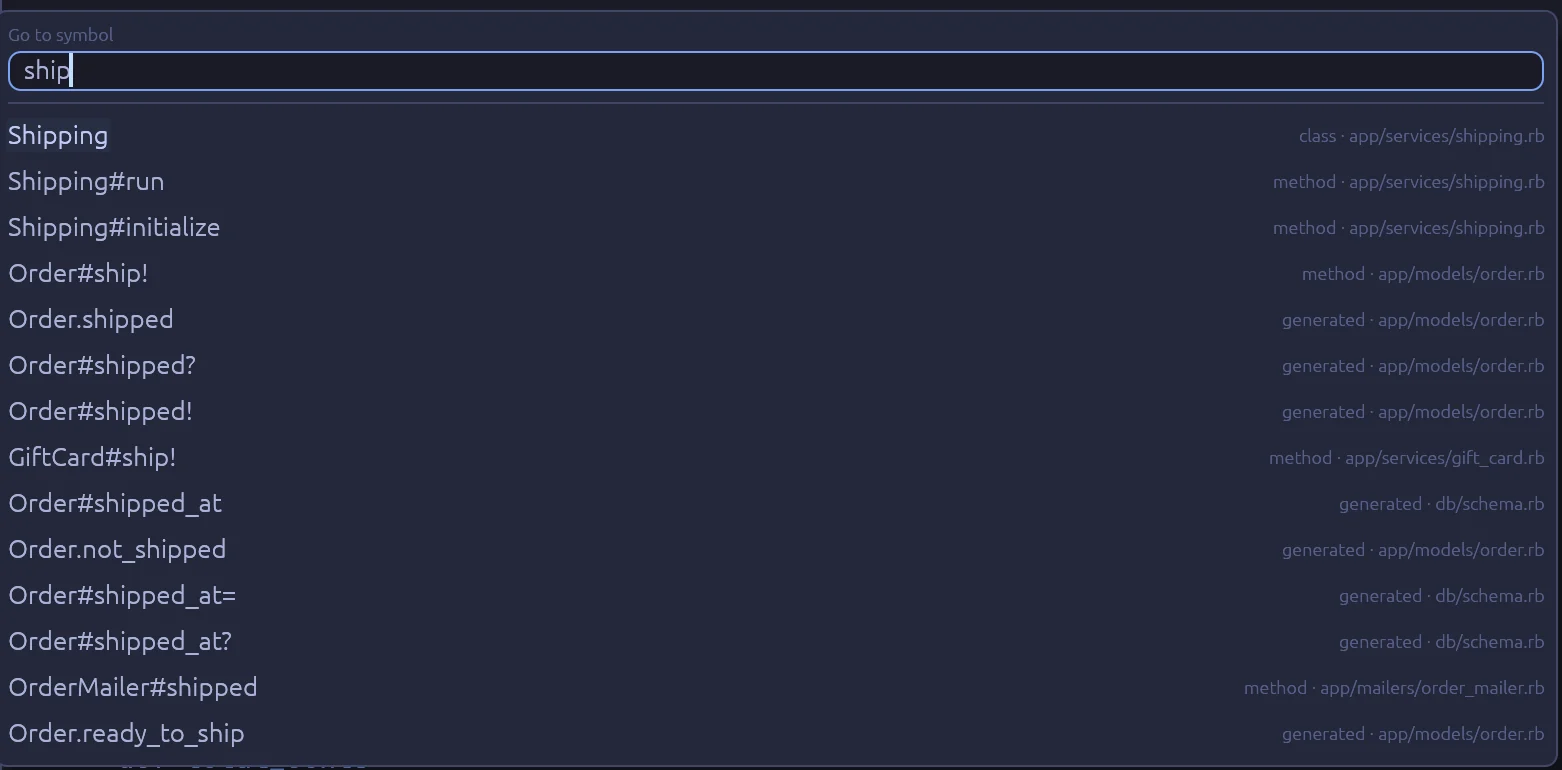
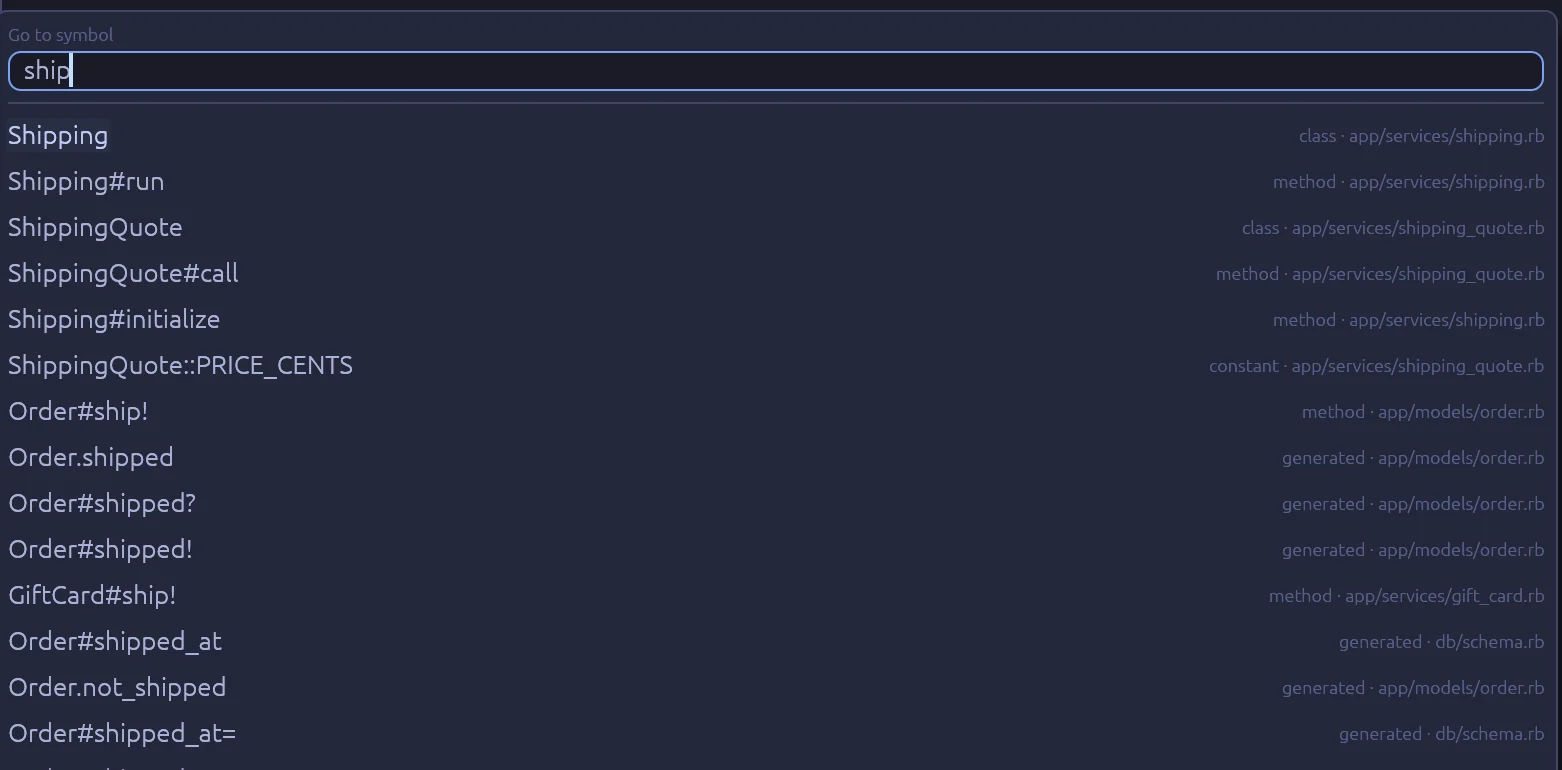
Let the Try it demo show more kinds of jump
The demo on the web page has tabs now: class and method, controller action
to view, partial, route helper, the usages of a constant, and a translation
key. Each tab is a real screenshot with a spot to click, and the result
after the click.

The shop app of the screenshot test has a Shop module with a constant and
three places that use it. All screenshots were made again.

diff --git a/webpage/index.html b/webpage/index.html
@@ -49,27 +49,75 @@
           </ul>
         </div>
 
-        <figure class="demo" id="demo" data-state="start">
+        <figure class="demo" id="demo" data-state="code">
+          <div class="demo-tabs" role="group" aria-label="Kinds of jump">
+            <button type="button" data-go="code" aria-pressed="true">Class and method</button>
+            <button type="button" data-go="view" aria-pressed="false">Controller to view</button>
+            <button type="button" data-go="partial" aria-pressed="false">Partial</button>
+            <button type="button" data-go="route" aria-pressed="false">Route helper</button>
+            <button type="button" data-go="constant" aria-pressed="false">Constant usages</button>
+            <button type="button" data-go="i18n" aria-pressed="false">Translation key</button>
+          </div>
           <div class="demo-frame">
-            <img src="img/shots/ctrl-hover.webp" data-for="start" width="2560" height="1520"
+            <img src="img/shots/ctrl-hover.webp" data-for="code" width="2560" height="1520"
                  alt="Rubyscope with app/services/shipping.rb open. Ctrl is held and the class name Order has an underline.">
-            <img src="img/shots/class-definition.webp" data-for="class" width="2560" height="1520" hidden loading="lazy"
+            <img src="img/shots/class-definition.webp" data-for="code-class" width="2560" height="1520" hidden loading="lazy"
                  alt="Rubyscope after the click: app/models/order.rb is open at class Order.">
-            <img src="img/shots/method-definition.webp" data-for="method" width="2560" height="1520" hidden loading="lazy"
+            <img src="img/shots/method-definition.webp" data-for="code-method" width="2560" height="1520" hidden loading="lazy"
                  alt="Rubyscope after the click: app/models/order.rb is open at def ship!.">
+            <img src="img/shots/try-view.webp" data-for="view" width="2560" height="1520" hidden loading="lazy"
+                 alt="Rubyscope with the orders controller open. Ctrl is held over the show action.">
+            <img src="img/shots/try-view-done.webp" data-for="view-done" width="2560" height="1520" hidden loading="lazy"
+                 alt="Rubyscope after the click: app/views/orders/show.html.erb is open.">
+            <img src="img/shots/try-partial.webp" data-for="partial" width="2560" height="1520" hidden loading="lazy"
+                 alt="Rubyscope with app/views/orders/show.html.erb open. Ctrl is held over the partial orders/line_item.">
+            <img src="img/shots/try-partial-done.webp" data-for="partial-done" width="2560" height="1520" hidden loading="lazy"
+                 alt="Rubyscope after the click: app/views/orders/_line_item.html.erb is open.">
+            <img src="img/shots/try-route.webp" data-for="route" width="2560" height="1520" hidden loading="lazy"
+                 alt="Rubyscope with the orders controller open. Ctrl is held over order_path.">
+            <img src="img/shots/try-route-done.webp" data-for="route-done" width="2560" height="1520" hidden loading="lazy"
+                 alt="Rubyscope after the click: config/routes.rb is open at resources :orders.">
+            <img src="img/shots/try-constant.webp" data-for="constant" width="2560" height="1520" hidden loading="lazy"
+                 alt="Rubyscope with app/models/shop.rb open. Ctrl is held over the constant FREE_SHIPPING_CENTS where it is defined.">
+            <img src="img/shots/try-constant-done.webp" data-for="constant-done" width="2560" height="1520" hidden loading="lazy"
+                 alt="Rubyscope after the click: the results panel lists 3 usages of Shop::FREE_SHIPPING_CENTS.">
+            <img src="img/shots/try-i18n.webp" data-for="i18n" width="2560" height="1520" hidden loading="lazy"
+                 alt="Rubyscope with the orders controller open. Ctrl is held over the lazy translation key .updated.">
+            <img src="img/shots/try-i18n-done.webp" data-for="i18n-done" width="2560" height="1520" hidden loading="lazy"
+                 alt="Rubyscope after the click: config/locales/en.yml is open at updated.">
 
-            <button class="spot" data-for="start" data-go="class" style="left:25.7%;top:31.3%;width:4.1%;height:3.8%"
+            <button class="spot" data-for="code" data-go="code-class" style="left:25.7%;top:31.3%;width:4.1%;height:3.8%"
                     aria-label="Ctrl+click Order"><span class="tip">Ctrl+click Order</span></button>
-            <button class="spot" data-for="start" data-go="method" style="left:31%;top:41.6%;width:4.2%;height:3.6%"
+            <button class="spot" data-for="code" data-go="code-method" style="left:31%;top:41.6%;width:4.2%;height:3.6%"
                     aria-label="Ctrl+click ship!"></button>
-            <button class="spot" data-for="class method" data-go="start" style="left:0.35%;top:0.5%;width:2.2%;height:3%"
+            <button class="spot" data-for="view" data-go="view-done" style="left:27.4%;top:31.9%;width:2.6%;height:3.4%" hidden
+                    aria-label="Ctrl+click show"><span class="tip">Ctrl+click show</span></button>
+            <button class="spot" data-for="partial" data-go="partial-done" style="left:39.2%;top:35.5%;width:11.8%;height:3.4%" hidden
+                    aria-label="Ctrl+click &quot;orders/line_item&quot;"><span class="tip">Ctrl+click "orders/line_item"</span></button>
+            <button class="spot" data-for="route" data-go="route-done" style="left:35.3%;top:62.7%;width:6.6%;height:3.4%" hidden
+                    aria-label="Ctrl+click order_path"><span class="tip">Ctrl+click order_path</span></button>
+            <button class="spot" data-for="constant" data-go="constant-done" style="left:24.2%;top:18.2%;width:12.5%;height:3.4%" hidden
+                    aria-label="Ctrl+click FREE_SHIPPING_CENTS"><span class="tip">Ctrl+click FREE_SHIPPING_CENTS</span></button>
+            <button class="spot" data-for="i18n" data-go="i18n-done" style="left:55%;top:62.7%;width:6.6%;height:3.4%" hidden
+                    aria-label="Ctrl+click &quot;.updated&quot;"><span class="tip">Ctrl+click ".updated"</span></button>
+            <button class="spot" data-for="code-class code-method view-done partial-done route-done constant-done i18n-done" data-go="back" style="left:0.35%;top:0.5%;width:2.2%;height:3%"
                     aria-label="Go back" hidden><span class="tip">Back</span></button>
           </div>
           <figcaption class="demo-bar">
-            <p data-for="start"><strong>Try it.</strong> This is a real screenshot. Ctrl is held, so <code>Order</code> has an underline. Click it, or click <code>ship!</code> lower down.</p>
-            <p data-for="class" hidden><strong>app/models/order.rb, line 2.</strong> The click found the class through Ruby's constant lookup. Use the back button in the top bar to return.</p>
-            <p data-for="method" hidden><strong>Order#ship!, line 22.</strong> Rubyscope knew that <code>order</code> is an <code>Order</code>, because it comes from <code>Order.ready_to_ship.find_each</code>.</p>
-            <button class="demo-reset" type="button" data-go="start" hidden>Start again</button>
+            <p data-for="code"><strong>Try it.</strong> These are real screenshots. Ctrl is held, so <code>Order</code> has an underline. Click it, or click <code>ship!</code> lower down. The tabs above show more kinds of jump.</p>
+            <p data-for="code-class" hidden><strong>app/models/order.rb, line 2.</strong> The click found the class through Ruby's constant lookup. Use the back button in the top bar to return.</p>
+            <p data-for="code-method" hidden><strong>Order#ship!, line 22.</strong> Rubyscope knew that <code>order</code> is an <code>Order</code>, because it comes from <code>Order.ready_to_ship.find_each</code>.</p>
+            <p data-for="view" hidden><strong>Try it.</strong> Ctrl is held over the <code>show</code> action in the orders controller. Click it to open its template.</p>
+            <p data-for="view-done" hidden><strong>app/views/orders/show.html.erb.</strong> The action opened its template. The bar above the code links back to <code>OrdersController#show</code>.</p>
+            <p data-for="partial" hidden><strong>Try it.</strong> Ctrl is held over a partial in a template. Click <code>"orders/line_item"</code>.</p>
+            <p data-for="partial-done" hidden><strong>app/views/orders/_line_item.html.erb.</strong> The partial name became its file, with the underscore and the template extension.</p>
+            <p data-for="route" hidden><strong>Try it.</strong> Ctrl is held over the route helper <code>order_path</code>. Click it.</p>
+            <p data-for="route-done" hidden><strong>config/routes.rb, line 2.</strong> <code>order_path</code> comes from <code>resources :orders</code>, so the click opens that line.</p>
+            <p data-for="constant" hidden><strong>Try it.</strong> This is where a constant is defined. Ctrl+click <code>FREE_SHIPPING_CENTS</code> to see where it is used.</p>
+            <p data-for="constant-done" hidden><strong>3 usages of Shop::FREE_SHIPPING_CENTS.</strong> A helper, a service and a spec. In the app, a click on a row opens that line, and "callers" goes one level up.</p>
+            <p data-for="i18n" hidden><strong>Try it.</strong> Ctrl is held over a lazy translation key in the update action. Click <code>".updated"</code>.</p>
+            <p data-for="i18n-done" hidden><strong>config/locales/en.yml, line 9.</strong> The lazy key <code>.updated</code> in <code>OrdersController#update</code> is <code>en.orders.update.updated</code>.</p>
+            <button class="demo-reset" type="button" data-go="back" hidden>Start again</button>
           </figcaption>
         </figure>
       </div>

diff --git a/webpage/js/site.js b/webpage/js/site.js
@@ -7,23 +7,30 @@ onScroll();
 
 // The demo shows one screenshot at a time. Every element with data-for
 // belongs to one or more states; a click on data-go moves to that state.
+// A state is a scene ("route") or a scene after its click ("route-done").
+// The tabs pick the scene; "back" returns to the start of the current scene.
 const demo = document.getElementById("demo");
 if (demo) {
+  const scene = () => demo.dataset.state.split("-")[0];
   const show = (state, focus) => {
+    if (state === "back") state = scene();
     demo.dataset.state = state;
-    demo.querySelectorAll("[data-for]").forEach((el) => {
+    demo.querySelectorAll(".demo-frame [data-for], .demo-bar [data-for]").forEach((el) => {
       el.hidden = !el.dataset.for.split(" ").includes(state);
     });
-    demo.querySelector(".demo-reset").hidden = state === "start";
+    demo.querySelectorAll(".demo-tabs [data-go]").forEach((tab) => {
+      tab.setAttribute("aria-pressed", tab.dataset.go === scene());
+    });
+    demo.querySelector(".demo-reset").hidden = state === scene();
     if (focus) demo.querySelector(`.spot:not([hidden])`)?.focus();
   };
   demo.addEventListener("click", (event) => {
     const go = event.target.closest("[data-go]");
-    if (go) show(go.dataset.go, event.detail === 0);
+    if (go) show(go.dataset.go, event.detail === 0 && !go.closest(".demo-tabs"));
   });
   // The mouse back button returns, as in the app.
   demo.addEventListener("mouseup", (event) => {
-    if (event.button === 3 && demo.dataset.state !== "start") show("start");
+    if (event.button === 3 && demo.dataset.state !== scene()) show("back");
   });
 }
 

diff --git a/webpage/css/site.css b/webpage/css/site.css
@@ -340,6 +340,37 @@ pre .c {
   margin-top: clamp(2.5rem, 6vw, 4rem);
 }
 
+.demo-tabs {
+  display: flex;
+  flex-wrap: wrap;
+  gap: 0.5rem;
+  margin-bottom: 1rem;
+}
+
+.demo-tabs button {
+  padding: 0.45rem 0.9rem;
+  border: 1px solid var(--rule);
+  border-radius: 999px;
+  background: none;
+  color: var(--ink-2);
+  font: inherit;
+  font-size: var(--step--1);
+  font-weight: 600;
+  cursor: pointer;
+  transition: background-color 120ms, color 120ms, border-color 120ms;
+}
+
+.demo-tabs button:hover {
+  border-color: var(--ink-2);
+  color: var(--ink);
+}
+
+.demo-tabs button[aria-pressed="true"] {
+  border-color: var(--ruby);
+  background: var(--ruby);
+  color: #fff;
+}
+
 .demo-frame {
   position: relative;
   overflow: hidden;

diff --git a/crates/app/src/shots.rs b/crates/app/src/shots.rs
@@ -170,6 +170,44 @@ class Shipping
 end
 "#;
 
+const SHOP: &str = r#"# Settings of the shop.
+module Shop
+  CURRENCY = "EUR"
+  FREE_SHIPPING_CENTS = 5_000
+end
+"#;
+
+const SHIPPING_QUOTE: &str = r#"# The shipping price of an order, in cents.
+class ShippingQuote
+  PRICE_CENTS = 490
+
+  def call(order)
+    return 0 if order.total_cents >= Shop::FREE_SHIPPING_CENTS
+
+    PRICE_CENTS
+  end
+end
+"#;
+
+const ORDERS_HELPER: &str = r#"module OrdersHelper
+  # How much more the customer has to buy to ship for free.
+  def free_shipping_gap(order)
+    gap = Shop::FREE_SHIPPING_CENTS - order.total_cents
+    number_to_currency([gap, 0].max / 100.0, unit: Shop::CURRENCY)
+  end
+end
+"#;
+
+const SHIPPING_QUOTE_SPEC: &str = r#"require "rails_helper"
+
+RSpec.describe ShippingQuote do
+  it "ships for free from the limit up" do
+    order = build(:order, total_cents: Shop::FREE_SHIPPING_CENTS)
+    expect(described_class.new.call(order)).to eq(0)
+  end
+end
+"#;
+
 const STEPS: &[Step] = &[
     (
         "Ada Novak",
@@ -240,6 +278,10 @@ const STEPS: &[Step] = &[
             ),
             ("app/services/gift_card.rb", "class GiftCard\n  # Ships a gift card.\n  def ship!\n  end\nend\n"),
             ("app/services/fulfil.rb", "class Fulfil\n  def call(item)\n    item.ship!\n  end\nend\n"),
+            ("app/models/shop.rb", SHOP),
+            ("app/services/shipping_quote.rb", SHIPPING_QUOTE),
+            ("app/helpers/orders_helper.rb", ORDERS_HELPER),
+            ("spec/services/shipping_quote_spec.rb", SHIPPING_QUOTE_SPEC),
         ],
     ),
 ];
@@ -304,6 +346,22 @@ fn point(h: &Harness<'static, App>, line: usize, col: usize) -> Pos2 {
     let t = h.state().current().expect("a tab");
     let (origin, row_h, char_w, first) = t.layout.expect("drawn");
     Pos2::new(origin.x + (col as f32 - 0.5) * char_w, origin.y + (line - 1 - first) as f32 * row_h + row_h * 0.35)
+}
+
+/// Prints where a name is in the window, in percent, for a click spot on the web page.
+fn spot(h: &Harness<'static, App>, name: &str, line: usize, col: usize, len: usize) {
+    let t = h.state().current().expect("a tab");
+    let (origin, row_h, char_w, first) = t.layout.expect("drawn");
+    let (w, ht) = (1280.0, 760.0);
+    let x = origin.x + (col as f32 - 1.0) * char_w;
+    let y = origin.y + (line - 1 - first) as f32 * row_h;
+    println!(
+        "spot {name}: left:{:.1}%;top:{:.1}%;width:{:.1}%;height:{:.1}%",
+        x / w * 100.0,
+        y / ht * 100.0,
+        len as f32 * char_w / w * 100.0,
+        row_h / ht * 100.0
+    );
 }
 
 fn open(h: &mut Harness<'static, App>, root: &Path, rel: &str) {
@@ -415,6 +473,25 @@ fn shots() {
     open(&mut h, &root, "app/models/order.rb");
     ctrl_click(&mut h, 2, 9);
     shot(&mut h, "usages");
+
+    // The "Try it" demo on the web page: one scene per kind of jump, each a
+    // whole window before and after the click.
+    let scenes: &[(&str, &str, usize, usize, usize)] = &[
+        ("view", "app/controllers/orders_controller.rb", 8, 7, 4),
+        ("partial", "app/views/orders/show.html.erb", 8, 25, 18),
+        ("route", "app/controllers/orders_controller.rb", 17, 19, 10),
+        ("constant", "app/models/shop.rb", 4, 3, 19),
+        ("i18n", "app/controllers/orders_controller.rb", 17, 49, 10),
+    ];
+    for &(name, file, line, col, len) in scenes {
+        let mut h = harness(&root);
+        open(&mut h, &root, file);
+        ctrl_hover(&mut h, line, col + 2);
+        spot(&h, name, line, col, len);
+        shot(&mut h, &format!("try-{name}"));
+        ctrl_click(&mut h, line, col + 2);
+        shot(&mut h, &format!("try-{name}-done"));
+    }
 
     // Git blame.
     let mut h = harness(&root);

diff --git a/webpage/bin/crop.py b/webpage/bin/crop.py
@@ -31,6 +31,10 @@ CROPS = {
     "commands": (518, 64, 2080, 880),
     "go-to-file": (518, 110, 2080, 330),
 }
+# The scenes of the "Try it" demo: the whole window, before and after the click.
+for scene in ("view", "partial", "route", "constant", "i18n"):
+    CROPS[f"try-{scene}"] = FULL
+    CROPS[f"try-{scene}-done"] = FULL
 
 
 def main(raw: Path, out: Path) -> None:

diff --git a/webpage/README.md b/webpage/README.md
@@ -62,3 +62,7 @@ Font has every symbol the window uses.
 
 When a screenshot changes size, update the `width` and `height` of its
 `img` tag.
+
+The "Try it" demo has one tab per kind of jump. Its click spots are
+percent boxes over the screenshot; `bin/shots` prints them as
+`spot <scene>: left:…`, to copy into the `style` of each `.spot` button.
